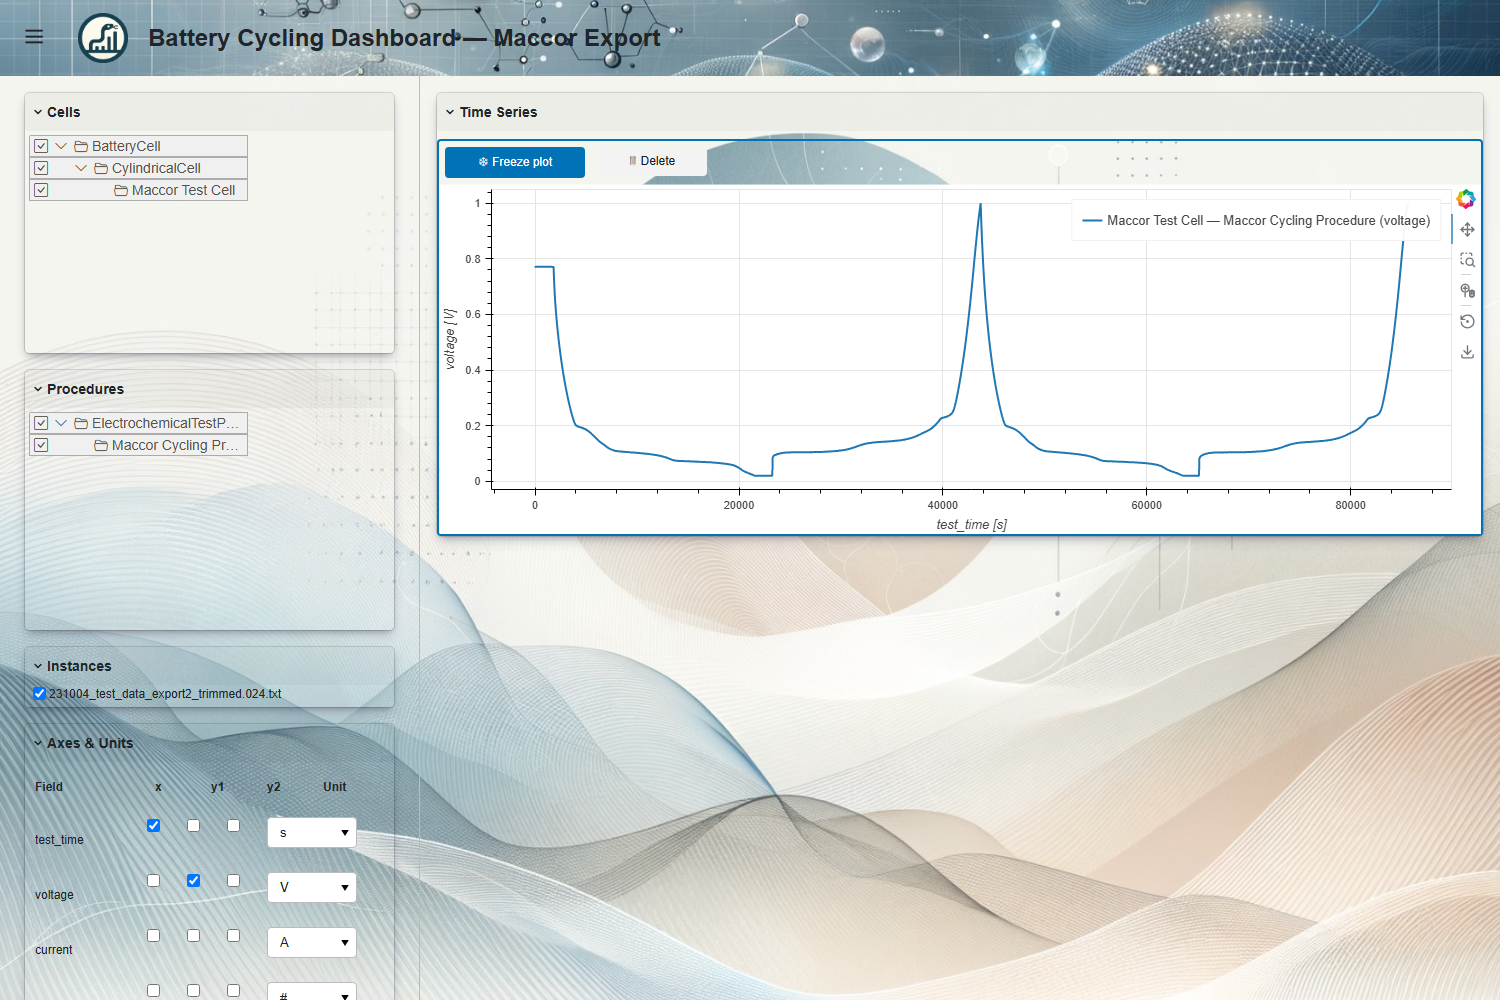
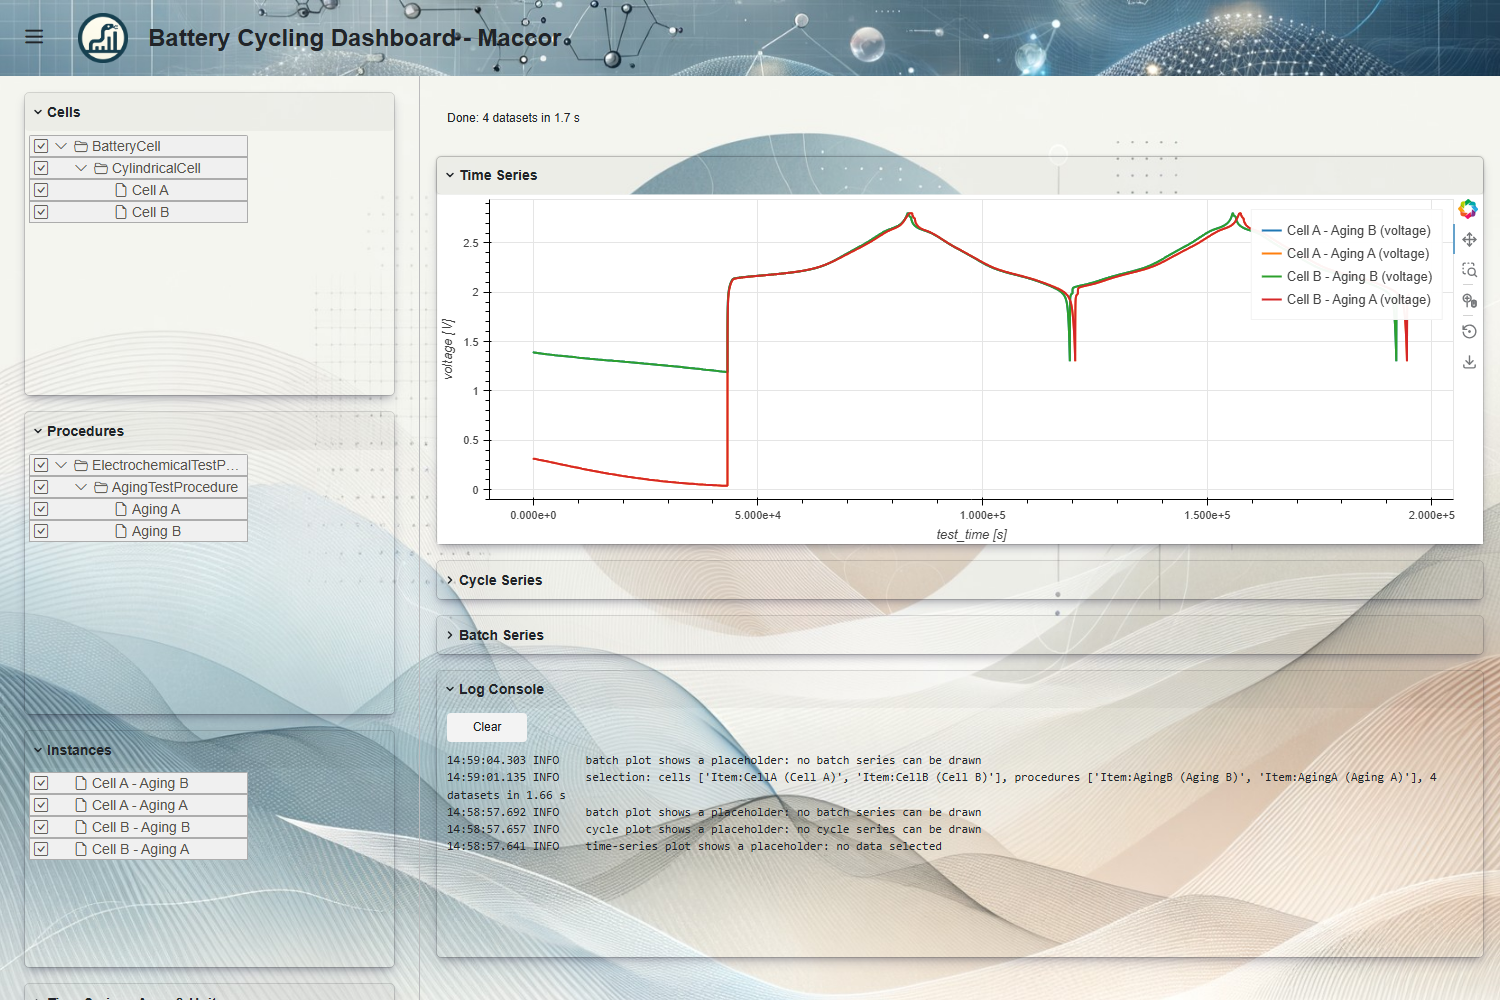
docs: adapt media generators to the new UI and regenerate Maccor media
- open_sidebar is idempotent; helpers to expand and collapse cards
- Maccor GIF shows time series, cycle series and batch series

diff --git a/docs/media/_screenshot_utils.py b/docs/media/_screenshot_utils.py
@@ -127,12 +127,133 @@ def real_click_selector(page, selector):
 
 
 def open_sidebar(page):
-    """Reveal Panelini's left sidebar (it defaults to collapsed).
+    """Make sure Panelini's left sidebar is open (idempotent).
 
-    ``sidebar_visible`` defaults to False, so the cell / procedure trees start
-    hidden; click the navbar toggle so they are visible in the recording.
+    ``sidebar_visible`` is True, so the sidebar normally starts open and a toggle
+    click would close it. The toggle is only clicked when the sidebar is
+    closed, i.e. the first sidebar card has no visible area. Returns True if
+    the sidebar is open afterwards.
     """
-    return real_click_selector(page, ".left-navbar-button")
+    if _sidebar_is_open(page):
+        return True
+    real_click_selector(page, ".left-navbar-button")
+    page.wait_for_timeout(800)
+    return _sidebar_is_open(page)
+
+
+def _sidebar_is_open(page):
+    return page.evaluate(
+        _CARD_JS
+        + """() => {
+            for (const c of allCards()) {
+                if (c.classList.contains('sidebar-object')) {
+                    const b = c.getBoundingClientRect();
+                    return b.width > 20 && b.height > 0
+                        && b.right > 0 && b.left < window.innerWidth;
+                }
+            }
+            return false;
+        }"""
+    )
+
+
+def expand_tree_nodes(page, rounds=3, settle=1200):
+    """Expand every collapsed Wunderbaum node (lazy trees load children on expand)."""
+    for _ in range(rounds):
+        page.evaluate(
+            """() => {
+                function rec(r) {
+                    for (const el of r.querySelectorAll('*')) {
+                        if (el.shadowRoot) {
+                            for (const x of el.shadowRoot.querySelectorAll(
+                                    'i.wb-expander.wb-collapsed')) x.click();
+                            rec(el.shadowRoot);
+                        }
+                    }
+                }
+                rec(document);
+            }"""
+        )
+        page.wait_for_timeout(settle)
+
+
+# -- Cards (title lives in the card header inside a shadow root) -------------
+
+_CARD_JS = """
+function* allEls(r){
+    for (const el of r.querySelectorAll('*')){
+        yield el;
+        if (el.shadowRoot) yield* allEls(el.shadowRoot);
+    }
+}
+function cardTitle(card){
+    const hd = (card.shadowRoot || card).querySelector('.card-header');
+    if (!hd) return null;
+    let t = '';
+    for (const e of allEls(hd)) {
+        if (['STYLE', 'LINK', 'svg', 'path'].includes(e.tagName)) continue;
+        if (e.children.length === 0 && !e.shadowRoot) {
+            const x = (e.textContent || '').trim();
+            if (x && !x.startsWith(':host')) t += x;
+        }
+    }
+    return t;
+}
+function* allCards(){
+    for (const el of allEls(document))
+        if (el.classList && el.classList.contains('card')
+            && /layout-Card/.test(el.className)) yield el;
+}
+function findCard(t){
+    for (const c of allCards()) if (cardTitle(c) === t) return c;
+    return null;
+}
+"""
+
+
+def _set_card(page, title, expanded, settle):
+    info = page.evaluate(
+        _CARD_JS
+        + """(t) => {
+            const c = findCard(t);
+            if (!c) return null;
+            const hd = c.shadowRoot.querySelector('.card-header');
+            hd.scrollIntoView({block: 'nearest'});
+            const hr = hd.getBoundingClientRect();
+            const b = c.getBoundingClientRect();
+            return {collapsed: b.height < hr.height + 4,
+                    x: hr.x + hr.width / 2, y: hr.y + hr.height / 2};
+        }""",
+        title,
+    )
+    if info is None:
+        return False
+    if info["collapsed"] == expanded:
+        page.mouse.click(info["x"], info["y"])
+        page.wait_for_timeout(settle)
+    return True
+
+
+def expand_card(page, title, settle=2500):
+    """Expand the card titled ``title`` (click its header only if collapsed).
+
+    A card counts as collapsed when its height is about the header height.
+    The header is scrolled into view first (the sidebar can be taller than the
+    viewport). Uses a real mouse click. Returns False if no card has that
+    title, else True.
+    """
+    return _set_card(page, title, True, settle)
+
+
+def collapse_card(page, title, settle=1500):
+    """Collapse the card titled ``title`` (click its header only if expanded)."""
+    return _set_card(page, title, False, settle)
+
+
+def click_button(page, name, settle=2500):
+    """Click the visible button called ``name`` (e.g. "Procedure batches")."""
+    page.get_by_role("button", name=name).click()
+    page.wait_for_timeout(settle)
 
 
 # -- Axes & Units grid (anonymous checkboxes + unit selects) -----------------

diff --git a/docs/media/generate_battery_dashboard_maccor.py b/docs/media/generate_battery_dashboard_maccor.py
@@ -5,10 +5,16 @@ plotted in ``BatteryDataView`` — self-contained, no database) and drives the U
 with Playwright, capturing frames that are stitched into an animated GIF.
 
 The story the GIF tells:
-  1. Empty dashboard; open the left sidebar to reveal the category trees.
-  2. Check the cell instance in the cell tree.
-  3. Check the procedure instance in the procedure tree -> the one matching
-     test is selected and its cycling data plots (voltage vs test_time).
+  1. Empty dashboard; the left sidebar is open on start (category trees,
+     instances) and the plot cards are collapsed.
+  2. Check the root of the cell tree (Cells A and B).
+  3. Check the root of the procedure tree (Aging A and B) -> the four
+     matching tests are selected. Expand "Time Series" -> its cycling data
+     plots (voltage vs test_time).
+  4. Expand "Cycle Series" -> discharge capacity per cycle.
+  5. Collapse "Time Series", expand "Batches" and click "Procedure batches",
+     then expand "Batch Series" -> the batch mean of the discharge capacity
+     with error bars.
 
 Prerequisites:
     pip install -e ".[docs]"      # playwright + imageio
@@ -23,7 +29,11 @@ import os
 import imageio.v3 as iio
 from _screenshot_utils import (
     capture,
+    click_button,
     click_tree_checkbox,
+    collapse_card,
+    expand_card,
+    expand_tree_nodes,
     open_sidebar,
     start_server,
     stop_server,
@@ -38,9 +48,10 @@ URL = f"http://localhost:{PORT}/battery_dashboard_maccor"
 VIEWPORT = {"width": 1500, "height": 1000}
 
 # Wunderbaum checkbox order per tree: index 0 is the tree root (the ceiling
-# class node), index 1 the first concrete instance under it.
+# class node). The trees are lazy and start collapsed; with ``selectMode: hier``
+# ticking the root selects every instance below it (Cells A, B and Aging A, B).
 CELL_TREE, PROC_TREE = 0, 1
-FIRST_INSTANCE_CB = 1
+ROOT_CB = 0
 
 GIF_OUT = os.path.join(MEDIA_DIR, "battery_dashboard_maccor.gif")
 PNG_OUT = os.path.join(MEDIA_DIR, "battery_dashboard_maccor.png")
@@ -56,21 +67,41 @@ def main():
             page = p.chromium.launch(headless=True).new_page(viewport=VIEWPORT)
             page.goto(URL, timeout=120000, wait_until="domcontentloaded")
             page.wait_for_timeout(6000)
-            capture(page, frames, 800)  # empty dashboard, sidebar collapsed
+            capture(page, frames, 800)  # empty dashboard, sidebar open on start
 
-            print("Open the sidebar...")
-            print("  toggle:", open_sidebar(page))
-            capture(page, frames, 1500)  # trees revealed
+            print("Make sure the sidebar is open...")
+            print("  sidebar:", open_sidebar(page))
 
-            print("Select cell instance...")
-            print("  cell cb:", click_tree_checkbox(page, CELL_TREE, FIRST_INSTANCE_CB))
+            print("Select all cells...")
+            print("  cell cb:", click_tree_checkbox(page, CELL_TREE, ROOT_CB))
             capture(page, frames, 1500)
 
-            print("Select procedure instance...")
-            print("  proc cb:", click_tree_checkbox(page, PROC_TREE, FIRST_INSTANCE_CB))
-            capture(page, frames, 2500)  # matching test selected -> plot renders
+            print("Select all procedures...")
+            print("  proc cb:", click_tree_checkbox(page, PROC_TREE, ROOT_CB))
+            expand_tree_nodes(page)  # show the lazily loaded instances
+            capture(page, frames, 2000)  # matching tests selected
+
+            print("Expand the Time Series plot card...")
+            print("  card:", expand_card(page, "Time Series"))
+            capture(page, frames, 1500)  # cycling data plots
             plot_frame = frames[-1]
-            capture(page, frames, 1500)  # hold on the plotted result
+
+            print("Expand the Cycle Series plot card...")
+            print("  card:", expand_card(page, "Cycle Series"))
+            capture(page, frames, 1500)  # discharge capacity per cycle
+
+            print("Collapse Time Series to make room for the batch plot...")
+            print("  card:", collapse_card(page, "Time Series"))
+
+            print("Expand Batches and group by procedure...")
+            print("  card:", expand_card(page, "Batches"))
+            click_button(page, "Procedure batches")
+            capture(page, frames, 1000)
+
+            print("Expand the Batch Series plot card...")
+            print("  card:", expand_card(page, "Batch Series"))
+            capture(page, frames, 2000)  # batch mean with error bars
+            capture(page, frames, 1500)  # hold on the final result
     finally:
         stop_server(proc)
 

diff --git a/docs/media/generate_battery_dashboard.py b/docs/media/generate_battery_dashboard.py
@@ -5,12 +5,14 @@ three procedures, six tests) and drives the UI with Playwright, capturing frames
 stitched into an animated GIF.
 
 The story the GIF tells (a fuller walk-through than the Maccor demo):
-  1. Empty dashboard; open the left sidebar to reveal the category trees.
+  1. Empty dashboard; the left sidebar is open on start (category trees,
+     instances) and the plot cards are collapsed. Expand "Time Series".
   2. Check only the round cells (the ``CylindricalCell`` subtree -> Cell A, B).
   3. Check the whole procedure tree (all procedures) -> every matching test
      plots as its own trace.
   4. Uncheck the "Aging (B)" run in the Instances card -> that trace drops.
-  5. Put ``current`` on the y2 (right) axis in Axes & Units -> a second axis
+  5. Expand "Time Series - Axes & Units" and put ``current`` on the y2
+     (right) axis -> a second axis
      appears with the current traces.
   6. Switch the current unit from A to mA -> the right axis rescales.
   7. Re-select: only the Prismatic cell (Cell C) and only the Formation Test
@@ -33,6 +35,7 @@ import imageio.v3 as iio
 from _screenshot_utils import (
     capture,
     click_tree_checkbox,
+    expand_card,
     open_sidebar,
     set_axis,
     set_unit,
@@ -75,11 +78,13 @@ def main():
             page = p.chromium.launch(headless=True).new_page(viewport=VIEWPORT)
             page.goto(URL, timeout=120000, wait_until="domcontentloaded")
             page.wait_for_timeout(6000)
-            capture(page, frames, 800)  # empty dashboard, sidebar collapsed
+            capture(page, frames, 800)  # empty dashboard, sidebar open on start
 
-            print("Open the sidebar...")
-            print("  toggle:", open_sidebar(page))
-            capture(page, frames, 1500)  # trees revealed
+            print("Make sure the sidebar is open...")
+            print("  sidebar:", open_sidebar(page))
+            print("Expand the Time Series plot card...")
+            print("  card:", expand_card(page, "Time Series"))
+            capture(page, frames, 1000)  # trees visible, empty plot card
 
             print("Select round (cylindrical) cells...")
             print(
@@ -96,6 +101,8 @@ def main():
             print("  uncheck:", toggle_row_checkbox(page, "Aging (B)"))
             capture(page, frames, 2500)  # that trace drops
 
+            print("Expand Time Series - Axes & Units...")
+            print("  card:", expand_card(page, "Time Series - Axes & Units"))
             print("Put current on the y2 axis...")
             print("  current y2:", set_axis(page, "current", "y2"))
             capture(page, frames, 2500)  # second (right) axis appears
